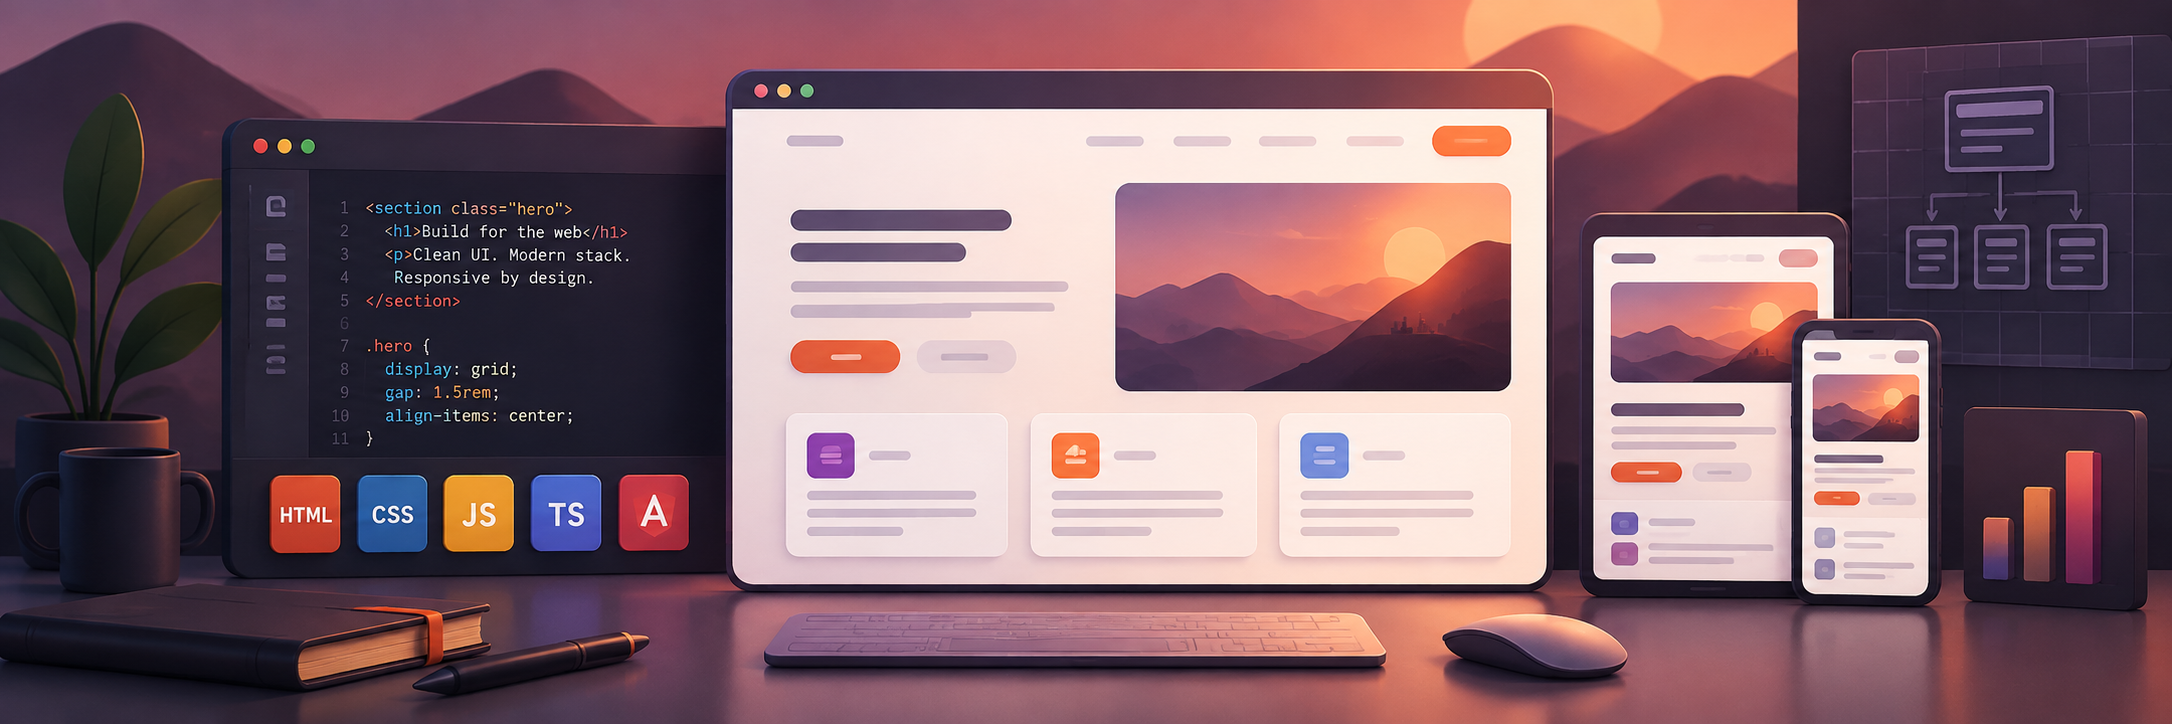
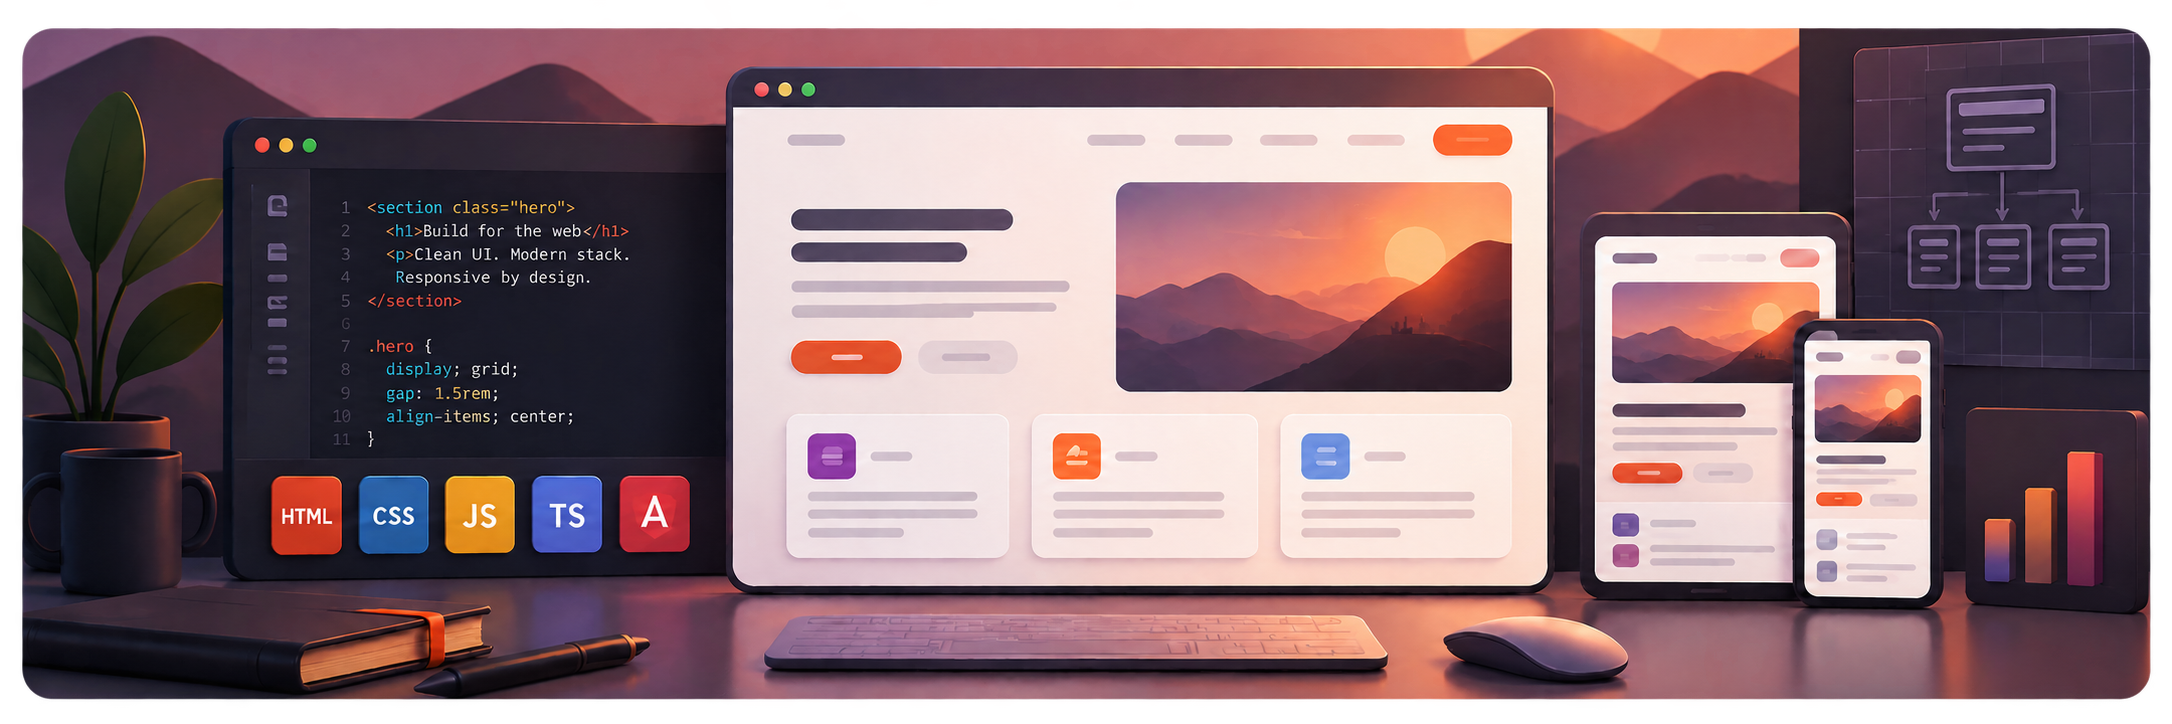
readme update

diff --git a/README.md b/README.md
@@ -59,7 +59,7 @@ Bevezetés a JavaScript nyelvbe: kialakulása és szerepe a weben, vanilla JavaS
 
 ### 💻 05. hét – JavaScript 2.
 
-Megismerjük a DOM-ot (Document Object Model) mint a HTML dokumentum strukturált, fa alapú reprezentációját és a JavaScript–HTML közötti programozási interfészt. Megtanuljuk, hogyan érhetők el és módosíthatók HTML elemek JavaScriptből, hogyan működik az oldal betöltése és a DOM létrejötte, illetve megismerjük a legfontosabb DOM-lekérdezési műveleteket, például a `querySelector`, `getElementById` és `getElementsByClassName` használatát. A DOM-ot a kliensoldali program input/output felületeként is értelmezzük.
+Megismerjük a DOM-ot (Document Object Model) mint a HTML dokumentum strukturált, fa alapú reprezentációját és a JavaScript–HTML közötti programozási interfészt. Megtanuljuk, hogyan érhetők el és módosíthatók HTML elemek JavaScriptből, hogyan működik az oldal betöltése és a DOM létrejötte, illetve megismerjük a legfontosabb DOM-lekérdezési műveleteket, például a `querySelector`, `getElementById` és `getElementsByClassName` használatát. A DOM-ot a kliensoldali program input/output felületeként is értelmezzük. Továbbá, bemutatásra kerül a hoisting jelenség a `var` változótípus esetén; az imperatív és deklaratív programozás; valamint az XSS támadás.
 
 **Gyakorlat:** egy *Todo manager* alkalmazást készítünk, amely CRUD módon kezeli a teendőket. A felület kialakításához Bootstrapet használunk. A kód jobb áttekinthetősége és dokumentálhatósága érdekében JSDoc kommenteket használunk a függvények, paraméterek és visszatérési értékek leírására.
 
